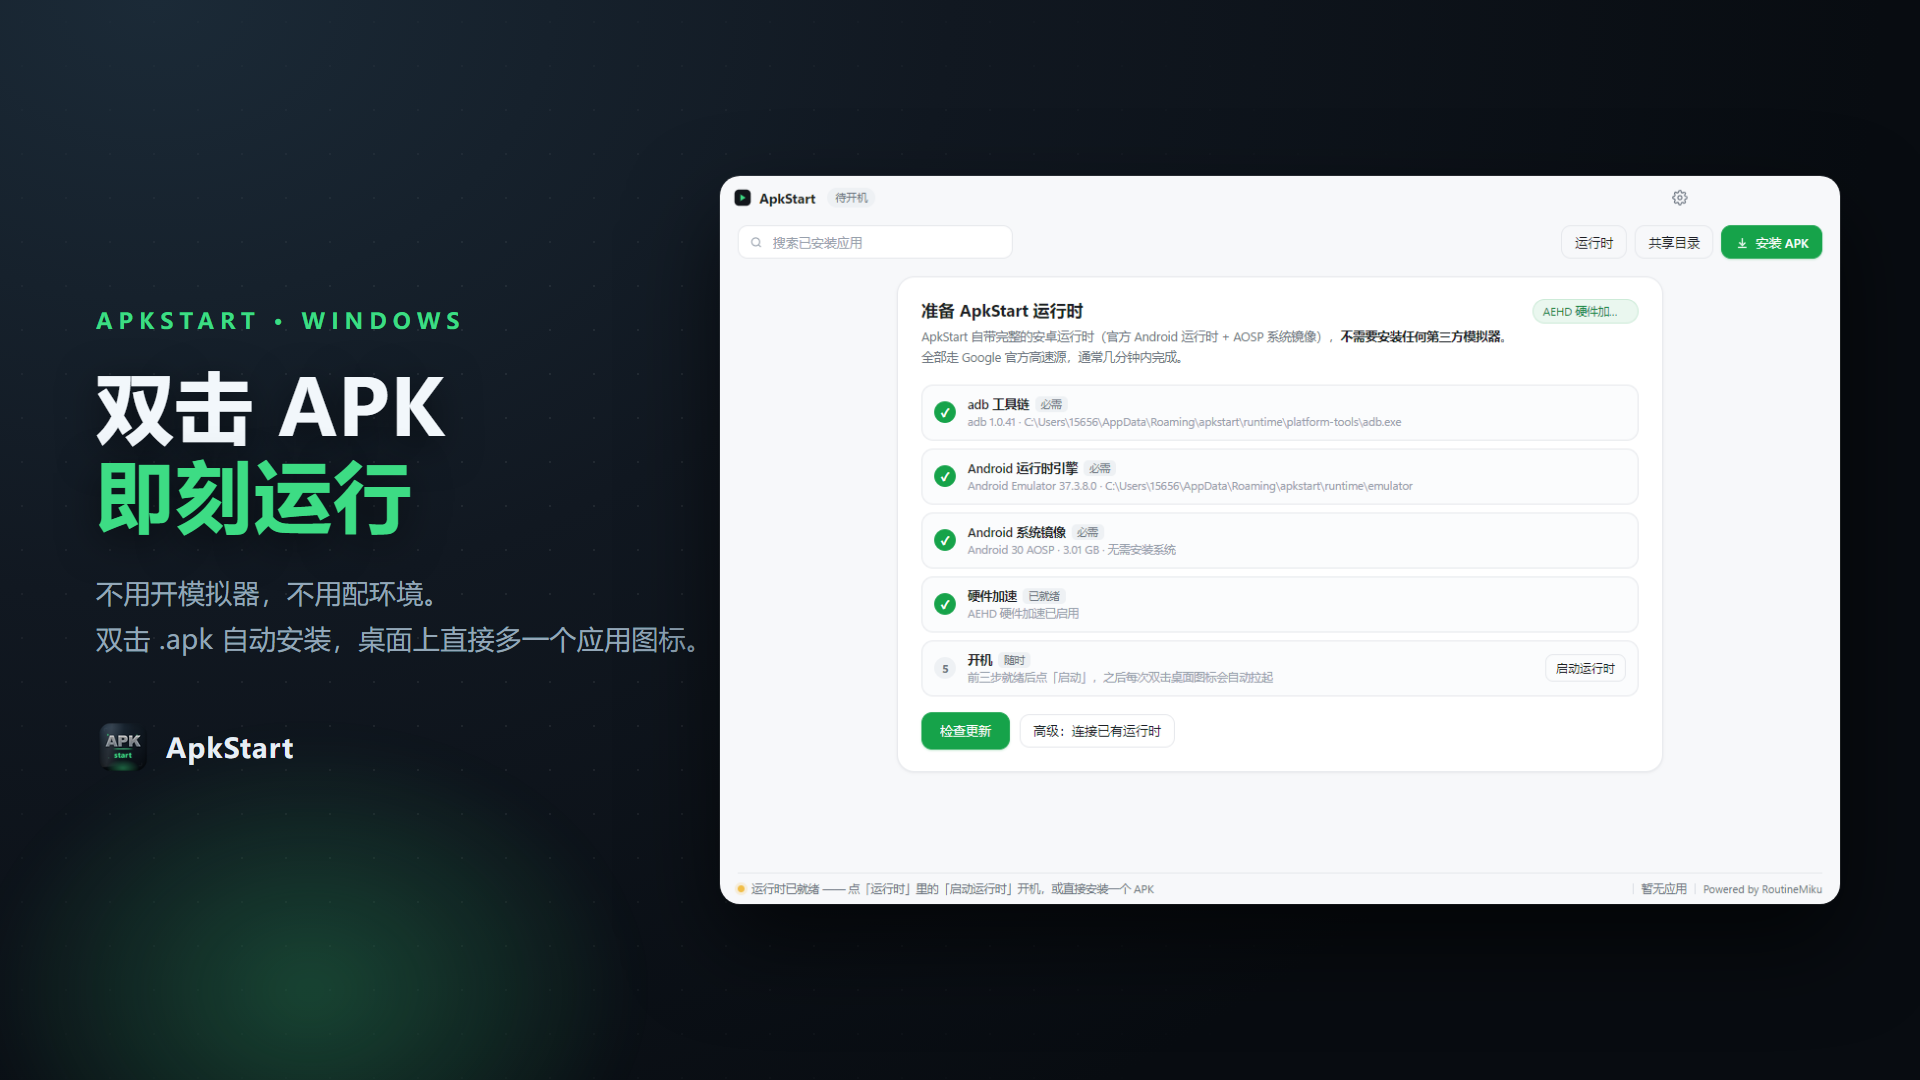
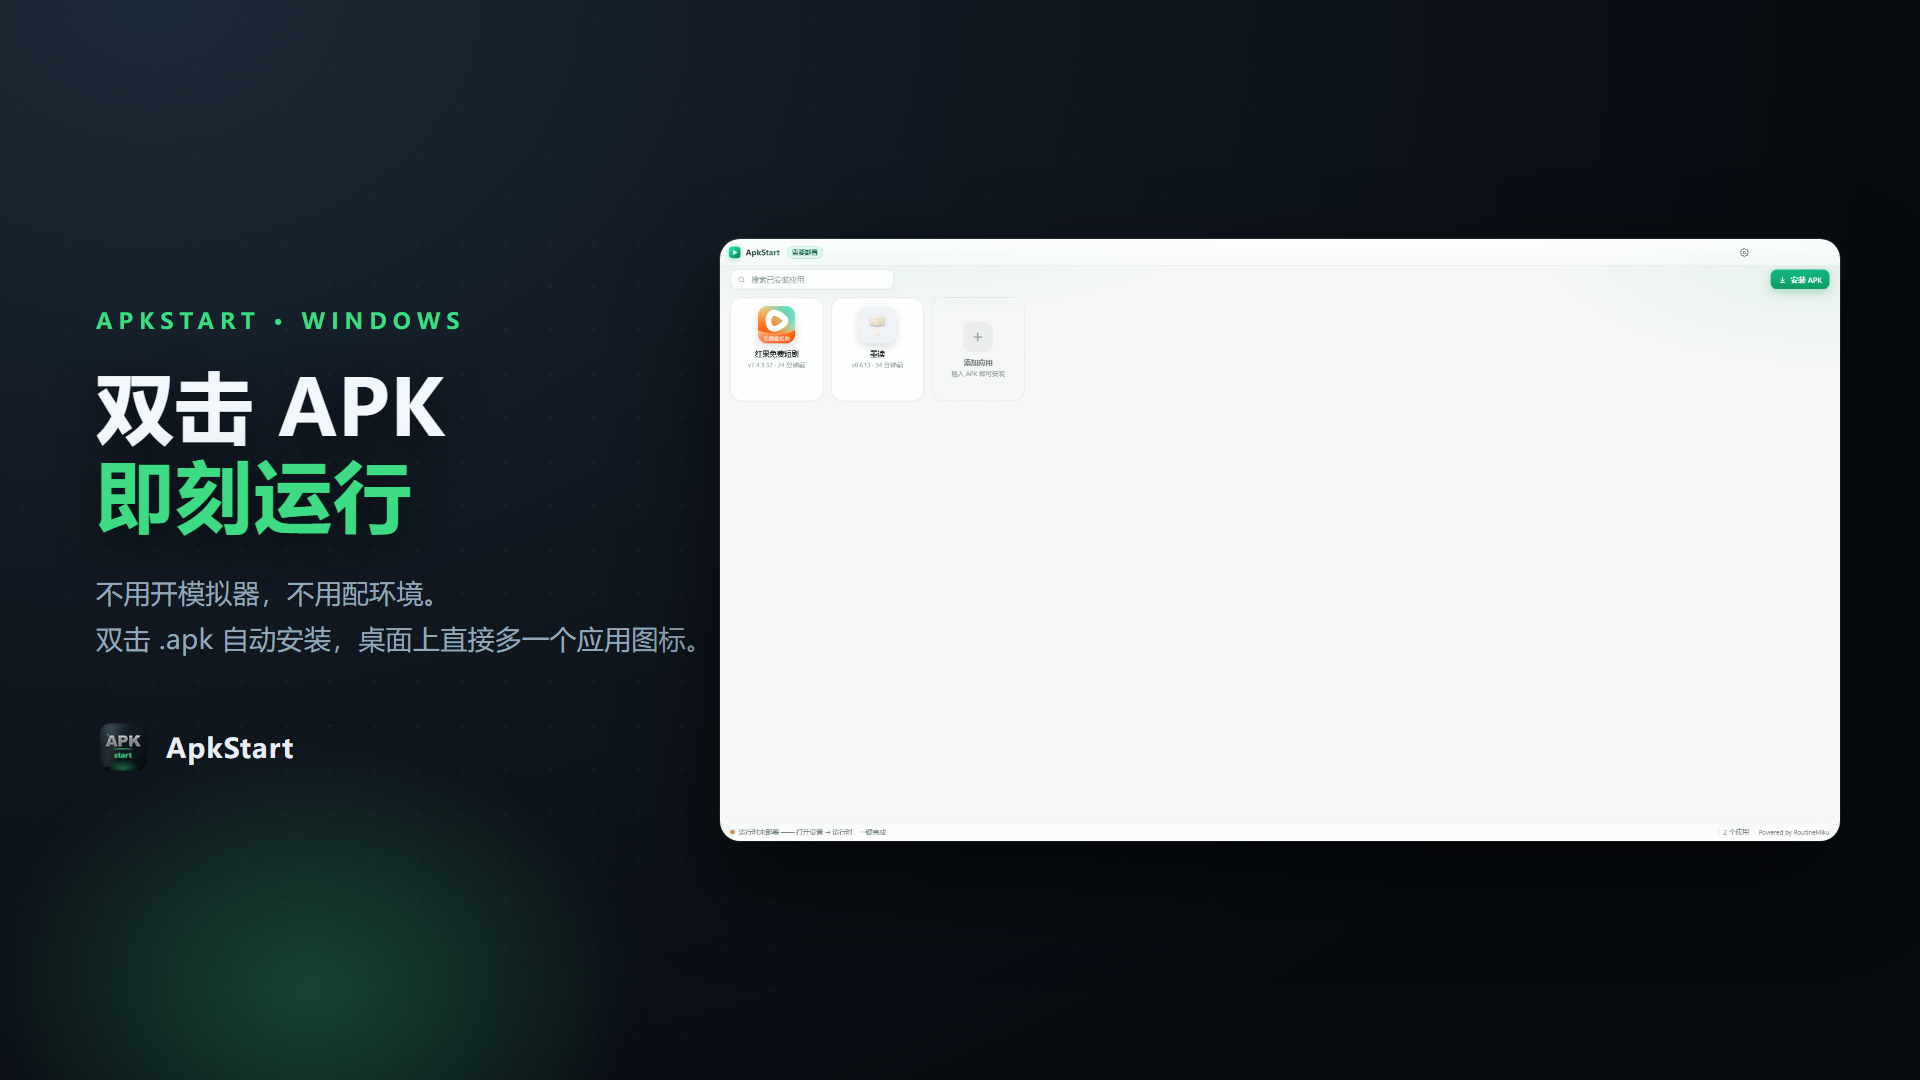
feat(store): 统一图标生成链路 + 商店截图构图 + 上传操作单
- build-icons.js: 主标/简化标/磁贴三档输出，ICO 16-48 用简化标避免糊
- store-shots: 1920x1080 商店截图（真实界面 + 品牌背景）
- package.json: 增加 icons / shots 命令
- docs: 商店提交材料与逐字段上传操作单

diff --git a/build/store-shots.html b/build/store-shots.html
@@ -71,15 +71,15 @@
     <div class="left">
       <div class="kicker s1-only">APKSTART · WINDOWS</div>
       <div class="kicker s2-only">一个应用 · 一个窗口</div>
-      <div class="kicker s3-only">零联网部署</div>
+      <div class="kicker s3-only">安装很简单</div>
 
       <h1 class="s1-only">双击 APK<br><em>即刻运行</em></h1>
       <h1 class="s2-only">每个应用<br><em>都是独立窗口</em></h1>
-      <h1 class="s3-only">运行时内置<br><em>装完即用</em></h1>
+      <h1 class="s3-only">拖进来<br><em>就装好了</em></h1>
 
       <p class="s1-only">不用开模拟器，不用配环境。<br>双击 .apk 自动安装，桌面上直接多一个应用图标。</p>
       <p class="s2-only">竖屏应用保持手机比例铺满屏幕，<br>窗口模式自由缩放，每个应用单独记忆尺寸。</p>
-      <p class="s3-only">模拟器、platform-tools、系统镜像<br>全部随安装包分发，运行时不下载任何可执行内容。</p>
+      <p class="s3-only">把 .apk 拖进窗口，或在资源管理器里双击。<br>自动解析、安装、生成桌面图标，全程不用配置。</p>
 
       <div class="brand">
         <img src="../src/ui/assets/logo-64.png" alt="" />
@@ -88,9 +88,9 @@
     </div>
 
     <div class="right">
-      <div class="frame wide s1-only"><img src="../docs/images/app.png" alt="" /></div>
+      <div class="frame wide s1-only"><img src="../docs/store-shots/raw-main.png" alt="" /></div>
       <div class="frame portrait s2-only"><img src="../docs/images/compat-hongguo-playing.png" alt="" /></div>
-      <div class="frame wide s3-only"><img src="../docs/images/setup.png" alt="" /></div>
+      <div class="frame wide s3-only"><img src="../docs/store-shots/raw-runtime.png" alt="" /></div>
     </div>
   </div>
 <script>

diff --git a/docs/store-upload-walkthrough.md b/docs/store-upload-walkthrough.md
@@ -1,0 +1,150 @@
+# ApkStart 商店上传操作单（照抄版）
+
+> 按 Partner Center 页面顺序排列。标 **[复制]** 的段落直接粘，标 **[上传]** 的从本地选文件。
+> 全程约 15 分钟。唯一需要你动脑的地方是第 2 步抄两个身份值。
+
+---
+
+## 0. 前置检查
+
+- [ ] `dist/store/ApkStart_0.5.0.0_x64.msix` 存在，891.7 MB
+- [ ] 包里身份已换成你的真实值（见第 2 步；当前仍是占位 `RoutineMiku.ApkStart`）
+- [ ] 隐私政策有可公开访问的 URL
+
+---
+
+## 1. 新建产品
+
+1. <https://partner.microsoft.com/dashboard> 登录
+2. **Apps and games → New product → MSIX or PWA app**
+3. 产品名：`ApkStart`
+   - 被占用就换 `ApkStart 安卓应用运行器`（只影响展示，不影响包身份）
+
+---
+
+## 2. 取身份值（**关键**）
+
+**Product management → Product identity**，整行复制：
+
+```
+Package/Identity/Name       = RoutineMiku.ApkStart
+Package/Identity/Publisher  = CN=58CA1DED-8AB3-4D0D-AF50-62C9B781AA4D
+```
+
+> 已确认（2026-11-16），包已按这两个值重打。除非 Partner Center 里显示的值与此不同，
+> 否则不需要再动。若日后名称或 Publisher 变更，重跑：
+>
+> ```powershell
+> node build/msix.js --identity "RoutineMiku.ApkStart" --publisher "CN=58CA1DED-8AB3-4D0D-AF50-62C9B781AA4D"
+> ```
+
+打包完我会核对：清单身份逐字一致、`Version="0.5.0.0"`、7 张 Assets 的 md5 与 `build/store-assets` 一致。
+**在第 2 步完成前不要上传**，占位身份会被直接拒收。
+
+---
+
+## 3. Packages — 上传
+
+**Packages → Upload package**
+
+- **[上传]** `D:\apkstart-dsh\apkstart\dist\store\ApkStart_0.5.0.0_x64.msix`
+- 上传约 891 MB，按你的上行带宽可能要 5–20 分钟，别刷新页面
+- 校验通过后会出现「Package accepted」
+
+常见报错：
+| 报错 | 原因 |
+|---|---|
+| `0x800B0109` | Publisher 与签名不匹配 → 身份值抄错，回第 2 步 |
+| `0x80080204` | 清单结构不合法 → 用当前 `build/msix.js` 重打包（`Square71/310` 必须在 `DefaultTile`） |
+| `Invalid package identity name` | `Name` 里有空格或大小写不符 |
+
+---
+
+## 4. Store listing — 英文（默认语言）
+
+**Short description**（≤100 字符）**[复制]**
+```
+Run Android apps on Windows by double-clicking an APK. Each app gets its own window.
+```
+
+**Description** **[复制]**
+`docs/store-listing.md` 第 3 节的 English 段落（从 `ApkStart turns Android apps...` 到 `No network access is needed afterwards.`）
+
+**Product features**（最多 20 条，逐条粘贴）**[复制]**
+```
+Double-click an APK to install it — no emulator UI, no setup
+Each app gets its own Desktop and Start menu shortcut with its real icon
+Apps run in their own window, with full-screen and resizable window mode
+Portrait and landscape apps are detected and filled to the correct aspect ratio
+Windows Search finds installed Android apps by name
+A shared folder syncs both ways between Windows and /sdcard/ApkStartShared
+The full runtime ships in the package — nothing executable is downloaded at runtime
+Shell has zero third-party dependencies; the runtime starts on demand and is reclaimed when idle
+No virtual network adapter and no kernel driver — Android uses the host connection
+Runtime permissions are granted automatically; crashed apps are retried
+```
+
+**Screenshots**（≥1 张，1366×768 以上）**[上传]**
+1. `docs/store-shots/1-main.png`
+2. `docs/store-shots/2-window.png`
+
+**Store logos**：可跳过（图标已在 MSIX 的 `Assets/` 里，包内 7 张齐全）
+
+---
+
+## 5. Store listing — 中文（简体）
+
+在产品语言里添加 **Chinese (Simplified)**，然后：
+
+**简短描述** **[复制]**
+```
+双击 APK 即可在 Windows 上运行安卓应用：独立窗口、桌面图标、运行时内置，装完即用。
+```
+
+**详细描述** **[复制]**
+`docs/store-listing.md` 第 3 节的「中文」整段
+
+**功能列表** **[复制]**
+`docs/store-listing.md` 第 4 节的 10 条
+
+**截图**：同上两张（可复用）
+
+---
+
+## 6. Properties
+
+- **Category**：Developer tools → **Utilities & tools**
+- **System requirements** **[复制]**
+```
+Windows 10 version 2004 (build 19041) or later, x64. "Virtual Machine Platform"
+(Windows Hypervisor Platform) must be enabled for hardware acceleration.
+8 GB RAM recommended; ~4 GB free disk space for the system image.
+```
+- **Privacy policy URL**：你的 `docs/privacy.md` 公开地址
+  > 注意：该文件目前在 `feat/pluggable-backend` 分支。要么合并到默认分支，
+  > 要么用 Pages 托管，否则审核员打开是 404。
+- **Support contact**：填你的邮箱 + `https://github.com/RoutineMiku/apkstart/issues`
+
+---
+
+## 7. Age ratings（IARC 问卷）
+
+- 应用本身不含内容，但**可运行第三方安卓应用** → 勾选「用户可以访问第三方内容」
+- 不含用户生成内容分享、不含社交、不含位置共享、不含内购
+- 一般得到 3+ / Everyone
+
+---
+
+## 8. Submission options → Notes for certification **[复制]**
+
+`docs/store-listing.md` 第 6 节整段（英文），核心是说明：内置模拟器与镜像随包分发、
+运行时不下载可执行内容、首次启动只做本地解压、WHPX 来自 Windows 本身。
+
+---
+
+## 9. 提交
+
+**Review and publish → Submit for certification**
+
+- 首个包通常 1–3 个工作日
+- 被拒最常见的原因：截图与界面不符、隐私政策 404、certification notes 太简略——这三项本单都已覆盖

diff --git a/docs/store-listing.md b/docs/store-listing.md
@@ -142,13 +142,24 @@ First launch expands the bundled system image to %USERPROFILE%\ApkStart\data
 
 建议顺序：
 
-1. 主界面（应用列表 + 已安装应用卡片）
-2. 一个竖屏应用正在运行（红果短剧）
-3. 一个横屏应用正在运行（墨读）
-4. 安装 APK 的瞬间（拖入 / 双击后自动解析）
+1. 主界面（已装应用卡片）
+2. 竖屏应用正在运行（体现独立窗口与铺满）
 
-> 现有 `docs/images/app.png` 等是 1140×740，**不满足** 1366×768 下限，
-> 需要按 `docs/store-msix.md` 第 6 节重新截 1920×1080。
+**已生成，可直接上传**（1920×1080，满足 1366×768 下限）：
+
+| 文件 | 主题 |
+|---|---|
+| `docs/store-shots/1-main.png` | 双击 APK，即刻运行 |
+| `docs/store-shots/2-window.png` | 每个应用都是独立窗口 |
+
+重新生成：
+
+```powershell
+npx electron build/store-shots.js
+```
+
+脚本只做「真实界面 + 背景 + 文案」的构图，不修改界面本身。
+原始截图 `raw-*.png` 由应用的 `--smoke` 截图模式产出（1920×1032）。
 
 ---
 
